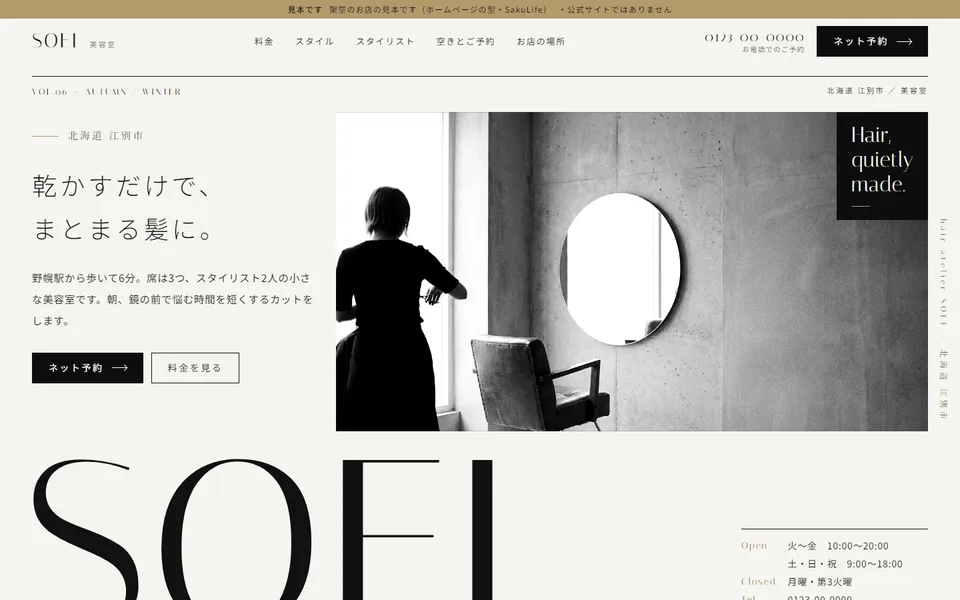
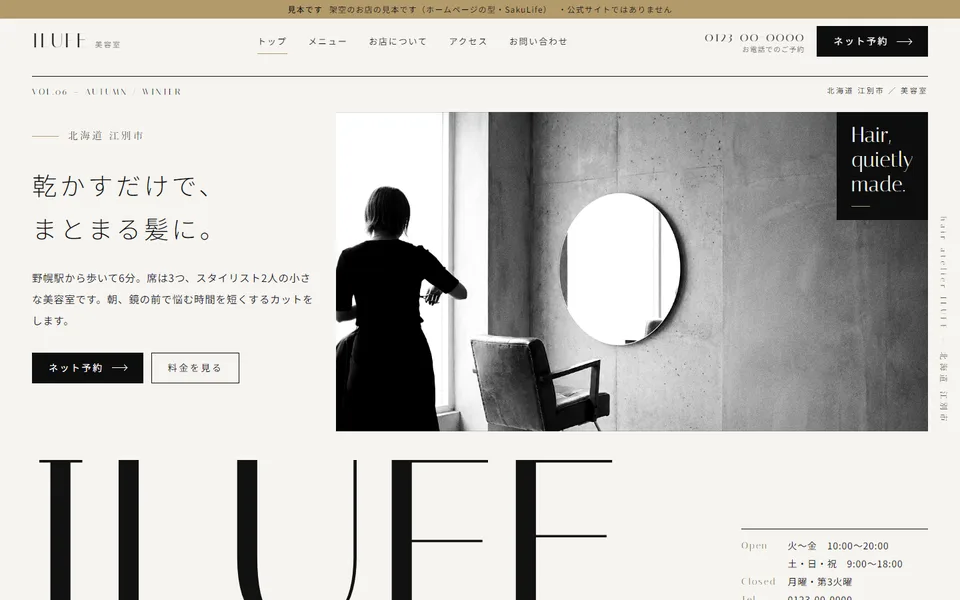
fix: 見本の店名を実在の店と紛れない名前に（美容室 ILUFE・整体院 ほどろ）
Claude-Session: https://claude.ai/code/session_01PUT2777bRqZum6AJJRXSPu

diff --git a/samples/05_seitai/index.html b/samples/05_seitai/index.html
@@ -5,9 +5,9 @@
 <meta name="viewport" content="width=device-width, initial-scale=1, viewport-fit=cover">
 <meta name="robots" content="noindex, nofollow, noarchive">
 <meta name="theme-color" content="#2f8f8a">
-<title>のっぽろ整体院 そよぎ｜北海道 江別市の整体院（見本）</title>
+<title>整体院 ほどろ｜北海道 江別市の整体院（見本）</title>
 <meta name="description" content="北海道 江別市の整体院。肩・首・腰のつらさに。初回は60分、お話と体の検査から始めます。 完全予約制・駐車場4台・お子さま連れもどうぞ。">
-<meta property="og:title" content="のっぽろ整体院 そよぎ｜北海道 江別市の整体院">
+<meta property="og:title" content="整体院 ほどろ｜北海道 江別市の整体院">
 <meta property="og:description" content="肩・首・腰のつらさに。初回は60分、お話と体の検査から始めます。 完全予約制・駐車場4台・お子さま連れもどうぞ。">
 <meta property="og:image" content="https://sakulife.github.io/saku-portfolio/samples/05_seitai/img/hero.webp">
 <meta property="og:type" content="website">
@@ -466,7 +466,7 @@ dl.info dd{margin:0}
 <div class="sample-band"><b>見本です</b>架空の整体院の見本です（ホームページの型・SakuLife）</div>
 <header class="hd">
   <div class="wrap">
-    <a class="logo" href="#top" aria-label="のっぽろ整体院 そよぎ トップへ"><svg viewBox="0 0 40 40" aria-hidden="true"><circle cx="20" cy="20" r="19" fill="#2f8f8a"/><path d="M9 24c4-1 7-6 11-6s6 4 11 3" fill="none" stroke="#fff" stroke-width="2.6" stroke-linecap="round"/><path d="M9 17c4-1 7-5 11-5s6 3 11 2" fill="none" stroke="#7fd1b9" stroke-width="2.6" stroke-linecap="round"/><circle cx="20" cy="29" r="2.4" fill="#fff"/></svg><span><b>のっぽろ整体院 そよぎ</b><small>SOYOGI SEITAI</small></span></a>
+    <a class="logo" href="#top" aria-label="整体院 ほどろ トップへ"><svg viewBox="0 0 40 40" aria-hidden="true"><circle cx="20" cy="20" r="19" fill="#2f8f8a"/><path d="M9 24c4-1 7-6 11-6s6 4 11 3" fill="none" stroke="#fff" stroke-width="2.6" stroke-linecap="round"/><path d="M9 17c4-1 7-5 11-5s6 3 11 2" fill="none" stroke="#7fd1b9" stroke-width="2.6" stroke-linecap="round"/><circle cx="20" cy="29" r="2.4" fill="#fff"/></svg><span><b>整体院 ほどろ</b><small>HODORO SEITAI</small></span></a>
     <nav class="gnav" aria-label="ページ内のご案内">
 <a href="#check">症状チェック</a><a href="#menu">コースと料金</a><a href="#flow">初回の流れ</a><a href="#faq">よくある質問</a><a href="#access">アクセス</a>
     </nav>
@@ -500,7 +500,7 @@ dl.info dd{margin:0}
 <ul class="facts hero-in"><li><svg viewBox="0 0 16 16" aria-hidden="true"><circle cx="8" cy="8" r="8"/><path d="M4.5 8.3l2.3 2.2L11.5 5.8"/></svg>完全予約制</li><li><svg viewBox="0 0 16 16" aria-hidden="true"><circle cx="8" cy="8" r="8"/><path d="M4.5 8.3l2.3 2.2L11.5 5.8"/></svg>強く押さない施術</li><li><svg viewBox="0 0 16 16" aria-hidden="true"><circle cx="8" cy="8" r="8"/><path d="M4.5 8.3l2.3 2.2L11.5 5.8"/></svg>ベビーカーのまま入れます</li></ul>      </div>
       <div class="visual" data-overflow-ok>
         <div class="blob"></div><div class="blob b2"></div>
-        <div class="ph"><img src="img/hero.webp" alt="のっぽろ整体院 そよぎの施術室（イメージ）" width="1264" height="843" fetchpriority="high"></div>
+        <div class="ph"><img src="img/hero.webp" alt="整体院 ほどろの施術室（イメージ）" width="1264" height="843" fetchpriority="high"></div>
         <div class="float f1"><small>いちばん多いコース｜からだ全体の整体</small><div class="bn"><b>40<span>MIN</span></b><b class="yen">¥6,000<span>税込</span></b></div></div>
         <div class="float f2"><span class="dot"></span><span><small>月〜金</small><b style="font-size:16px">10:00〜20:00</b></span></div>
       </div>
@@ -653,6 +653,7 @@ dl.info dd{margin:0}
     </div>
   </section>
 
+
   <section class="sec pale" id="faq">
     <div class="wrap">
       <div class="ttl c"><span class="en">FAQ</span><h2>よくある質問</h2></div>
@@ -725,13 +726,13 @@ dl.info dd{margin:0}
     <div class="wrap">
       <div class="ttl"><span class="en">Access</span><h2>院の場所</h2></div>
       <div class="grid">
-        <iframe class="map" title="のっぽろ整体院 そよぎの地図" loading="lazy" referrerpolicy="no-referrer-when-downgrade" src="https://www.google.com/maps?q=%E5%8C%97%E6%B5%B7%E9%81%93%20%E6%B1%9F%E5%88%A5%E5%B8%82%20%E9%87%8E%E5%B9%8C%E7%94%BA&amp;hl=ja&amp;z=15&amp;output=embed"></iframe>
+        <iframe class="map" title="整体院 ほどろの地図" loading="lazy" referrerpolicy="no-referrer-when-downgrade" src="https://www.google.com/maps?q=%E5%8C%97%E6%B5%B7%E9%81%93%20%E6%B1%9F%E5%88%A5%E5%B8%82%20%E9%87%8E%E5%B9%8C%E7%94%BA&amp;hl=ja&amp;z=15&amp;output=embed"></iframe>
         <div>
           <dl class="info">
             <div><dt>住所</dt><dd>北海道 江別市野幌町（番地が入ります）</dd></div>
 <div><dt>アクセス</dt><dd>JR野幌駅から歩いて8分</dd></div><div><dt>駐車場</dt><dd>院の前に4台</dd></div>            <div><dt>電話</dt><dd><a href="tel:0123000000">0123-00-0000</a></dd></div>
 <div><dt>定休日</dt><dd>日曜・祝日</dd></div>          </dl>
-<div class="ext"><img src="img/exterior.webp" alt="のっぽろ整体院 そよぎの外観（イメージ）" loading="lazy" width="1184" height="888"></div>        </div>
+<div class="ext"><img src="img/exterior.webp" alt="整体院 ほどろの外観（イメージ）" loading="lazy" width="1184" height="888"></div>        </div>
       </div>
 <div class="news"><ul><li><time>2026.12.01</time><span>年末年始のお休み：12月30日〜1月4日</span></li><li><time>2026.11.15</time><span>土曜の受付を16:00までに延ばしました</span></li><li><time>2026.10.20</time><span>冬のあいだ、駐車場の除雪は朝8時に済ませています</span></li></ul></div>    </div>
   </section>
@@ -741,7 +742,7 @@ dl.info dd{margin:0}
   <div class="wrap">
     <div class="grid">
       <div>
-        <a class="logo" href="#top"><svg viewBox="0 0 40 40" aria-hidden="true"><circle cx="20" cy="20" r="19" fill="#2f8f8a"/><path d="M9 24c4-1 7-6 11-6s6 4 11 3" fill="none" stroke="#fff" stroke-width="2.6" stroke-linecap="round"/><path d="M9 17c4-1 7-5 11-5s6 3 11 2" fill="none" stroke="#7fd1b9" stroke-width="2.6" stroke-linecap="round"/><circle cx="20" cy="29" r="2.4" fill="#fff"/></svg><span><b>のっぽろ整体院 そよぎ</b><small>SOYOGI SEITAI</small></span></a>
+        <a class="logo" href="#top"><svg viewBox="0 0 40 40" aria-hidden="true"><circle cx="20" cy="20" r="19" fill="#2f8f8a"/><path d="M9 24c4-1 7-6 11-6s6 4 11 3" fill="none" stroke="#fff" stroke-width="2.6" stroke-linecap="round"/><path d="M9 17c4-1 7-5 11-5s6 3 11 2" fill="none" stroke="#7fd1b9" stroke-width="2.6" stroke-linecap="round"/><circle cx="20" cy="29" r="2.4" fill="#fff"/></svg><span><b>整体院 ほどろ</b><small>HODORO SEITAI</small></span></a>
         <p style="margin-top:16px">北海道 江別市野幌町（番地が入ります）<br>JR野幌駅から歩いて8分<br>駐車場：院の前に4台</p>
       </div>
       <div>
@@ -756,7 +757,7 @@ dl.info dd{margin:0}
     </div>
     <div class="bottom">
       <p>施術は医療行為ではありません。強い痛み・しびれ・けがの時は、先に医療機関の受診をおすすめします。<br>このページは架空の整体院の見本です。写真は AI で作ったイメージです。</p>
-      <p>© のっぽろ整体院 そよぎ（見本）</p>
+      <p>© 整体院 ほどろ（見本）</p>
     </div>
   </div>
 </footer>

diff --git a/samples/04_salon/index.html b/samples/04_salon/index.html
@@ -5,9 +5,9 @@
 <meta name="viewport" content="width=device-width, initial-scale=1, viewport-fit=cover">
 <meta name="robots" content="noindex, nofollow, noarchive">
 <meta name="theme-color" content="#0d0d0d">
-<title>hair atelier SOEL｜北海道 江別市の美容室（見本）</title>
-<meta name="description" content="北海道 江別市の美容室 hair atelier SOEL。野幌駅から歩いて6分。席は3つ、スタイリスト2人の小さな美容室です。朝、鏡の前で悩む時間を短くするカットをします。">
-<meta property="og:title" content="hair atelier SOEL｜北海道 江別市の美容室">
+<title>hair atelier ILUFE｜北海道 江別市の美容室（見本）</title>
+<meta name="description" content="北海道 江別市の美容室 hair atelier ILUFE。野幌駅から歩いて6分。席は3つ、スタイリスト2人の小さな美容室です。朝、鏡の前で悩む時間を短くするカットをします。">
+<meta property="og:title" content="hair atelier ILUFE｜北海道 江別市の美容室">
 <meta property="og:description" content="野幌駅から歩いて6分。席は3つ、スタイリスト2人の小さな美容室です。朝、鏡の前で悩む時間を短くするカットをします。">
 <meta property="og:image" content="https://sakulife.github.io/saku-portfolio/samples/04_salon/img/hero.webp">
 <meta property="og:type" content="website">
@@ -17,7 +17,7 @@
 <link rel="preconnect" href="https://fonts.gstatic.com" crossorigin>
 <link href="https://fonts.googleapis.com/css2?family=Italiana&family=Noto+Sans+JP:wght@200;300;400;500&display=swap" rel="stylesheet">
 <link rel="preload" as="image" href="img/hero.webp">
-<script type="application/ld+json">{"@context": "https://schema.org", "@type": "HairSalon", "address": "\u5317\u6d77\u9053 \u6c5f\u5225\u5e02\u91ce\u5e4c\u753a\uff08\u756a\u5730\u304c\u5165\u308a\u307e\u3059\uff09", "name": "hair atelier SOEL", "openingHours": ["\u706b\u301c\u91d1 10:00\u301c20:00\uff08\u30ab\u30c3\u30c8\u306e\u6700\u7d42\u53d7\u4ed8 19:00\uff09", "\u571f\u30fb\u65e5\u30fb\u795d 9:00\u301c18:00"], "telephone": "0123-00-0000"}</script>
+<script type="application/ld+json">{"@context": "https://schema.org", "@type": "HairSalon", "address": "\u5317\u6d77\u9053 \u6c5f\u5225\u5e02\u91ce\u5e4c\u753a\uff08\u756a\u5730\u304c\u5165\u308a\u307e\u3059\uff09", "name": "hair atelier ILUFE", "openingHours": ["\u706b\u301c\u91d1 10:00\u301c20:00\uff08\u30ab\u30c3\u30c8\u306e\u6700\u7d42\u53d7\u4ed8 19:00\uff09", "\u571f\u30fb\u65e5\u30fb\u795d 9:00\u301c18:00"], "telephone": "0123-00-0000"}</script>
 <style>
 :root{
   --main:#0d0d0d; --accent:#b39a6b; --bg:#f6f4f0; --ink:#111111;
@@ -387,7 +387,7 @@ section[id]{scroll-margin-top:calc(var(--band) + var(--hd) + 10px)}
 <div class="band" role="note"><b>見本です</b><span>架空のお店の見本です（ホームページの型・SakuLife）</span><span class="lg">・公式サイトではありません</span></div>
 
 <header class="hd">
-  <a class="logo" href="index.html#top" aria-label="hair atelier SOEL トップへ"><span class="en">SOEL</span><small>美容室</small></a>
+  <a class="logo" href="index.html#top" aria-label="hair atelier ILUFE トップへ"><span class="en">ILUFE</span><small>美容室</small></a>
   <nav class="gn" aria-label="ページの案内">
 <a href="index.html" aria-current="page">トップ</a><a href="menu.html">メニュー</a><a href="about.html">お店について</a><a href="access.html">アクセス</a><a href="contact.html">お問い合わせ</a>  </nav>
   <button class="mbtn" type="button" aria-expanded="false" aria-controls="mnav"><span>MENU</span><i aria-hidden="true"></i></button>
@@ -411,10 +411,10 @@ section[id]{scroll-margin-top:calc(var(--band) + var(--hd) + 10px)}
         <a class="bk line" href="menu.html#price">料金を見る</a>
       </div>
     </div>
-    <div class="ph"><img src="img/hero.webp" alt="hair atelier SOELの店内（イメージ）" width="1600" height="900" fetchpriority="high"><p class="tagline" aria-hidden="true"><span class="mline"><span>Hair,</span></span><span class="mline"><span>quietly</span></span><span class="mline"><span>made.</span></span></p></div>
-    <div class="mast" aria-hidden="true">SOEL</div>
+    <div class="ph"><img src="img/hero.webp" alt="hair atelier ILUFEの店内（イメージ）" width="1600" height="900" fetchpriority="high"><p class="tagline" aria-hidden="true"><span class="mline"><span>Hair,</span></span><span class="mline"><span>quietly</span></span><span class="mline"><span>made.</span></span></p></div>
+    <div class="mast" aria-hidden="true">ILUFE</div>
     <div class="cover"><dl><dt>Open</dt><dd>火〜金　10:00〜20:00</dd><dt></dt><dd>土・日・祝　9:00〜18:00</dd><dt>Closed</dt><dd>月曜・第3火曜</dd><dt>Tel</dt><dd><a href="tel:0123000000">0123-00-0000</a></dd></dl></div>
-    <div class="side" aria-hidden="true">hair atelier SOEL — 北海道 江別市</div>
+    <div class="side" aria-hidden="true">hair atelier ILUFE — 北海道 江別市</div>
   </section>
 
   <section class="intro" aria-label="ご紹介">
@@ -446,14 +446,14 @@ section[id]{scroll-margin-top:calc(var(--band) + var(--hd) + 10px)}
 
 <footer class="ft">
   <div class="wrap">
-    <div class="huge" aria-hidden="true">SOEL</div>
+    <div class="huge" aria-hidden="true">ILUFE</div>
     <div class="cols">
       <div><h3>Contact</h3><a class="tel2" href="tel:0123000000">0123-00-0000</a><br>火〜金 10:00〜20:00（カットの最終受付 19:00）<br>土・日・祝 9:00〜18:00<br>定休日　月曜・第3火曜</div>
-      <div><h3>Access</h3>hair atelier SOEL<br>北海道 江別市野幌町（番地が入ります）<br><a href="access.html#info">地図を見る →</a></div>
+      <div><h3>Access</h3>hair atelier ILUFE<br>北海道 江別市野幌町（番地が入ります）<br><a href="access.html#info">地図を見る →</a></div>
       <div><h3>Menu</h3><ul><li><a href="index.html">トップ</a></li><li><a href="menu.html">メニュー</a></li><li><a href="about.html">お店について</a></li><li><a href="access.html">アクセス</a></li><li><a href="contact.html">お問い合わせ</a></li><li><a href="contact.html#reserve">ネット予約</a></li></ul></div>
     </div>
     <div class="row">
-<p>このページは架空のお店で作ったホームページの見本です。お店・人・電話番号は実在しません。写真は AI で作ったイメージです。</p>      <p>© hair atelier SOEL</p>
+<p>このページは架空のお店で作ったホームページの見本です。お店・人・電話番号は実在しません。写真は AI で作ったイメージです。</p>      <p>© hair atelier ILUFE</p>
     </div>
   </div>
 </footer>

diff --git a/samples/04_salon/access.html b/samples/04_salon/access.html
@@ -5,9 +5,9 @@
 <meta name="viewport" content="width=device-width, initial-scale=1, viewport-fit=cover">
 <meta name="robots" content="noindex, nofollow, noarchive">
 <meta name="theme-color" content="#0d0d0d">
-<title>アクセス｜hair atelier SOEL（見本）</title>
-<meta name="description" content="北海道 江別市の美容室 hair atelier SOEL。野幌駅から歩いて6分。席は3つ、スタイリスト2人の小さな美容室です。朝、鏡の前で悩む時間を短くするカットをします。">
-<meta property="og:title" content="hair atelier SOEL｜北海道 江別市の美容室">
+<title>アクセス｜hair atelier ILUFE（見本）</title>
+<meta name="description" content="北海道 江別市の美容室 hair atelier ILUFE。野幌駅から歩いて6分。席は3つ、スタイリスト2人の小さな美容室です。朝、鏡の前で悩む時間を短くするカットをします。">
+<meta property="og:title" content="hair atelier ILUFE｜北海道 江別市の美容室">
 <meta property="og:description" content="野幌駅から歩いて6分。席は3つ、スタイリスト2人の小さな美容室です。朝、鏡の前で悩む時間を短くするカットをします。">
 <meta property="og:image" content="https://sakulife.github.io/saku-portfolio/samples/04_salon/img/hero.webp">
 <meta property="og:type" content="website">
@@ -17,7 +17,7 @@
 <link rel="preconnect" href="https://fonts.gstatic.com" crossorigin>
 <link href="https://fonts.googleapis.com/css2?family=Italiana&family=Noto+Sans+JP:wght@200;300;400;500&display=swap" rel="stylesheet">
 <link rel="preload" as="image" href="img/hero.webp">
-<script type="application/ld+json">{"@context": "https://schema.org", "@type": "HairSalon", "address": "\u5317\u6d77\u9053 \u6c5f\u5225\u5e02\u91ce\u5e4c\u753a\uff08\u756a\u5730\u304c\u5165\u308a\u307e\u3059\uff09", "name": "hair atelier SOEL", "openingHours": ["\u706b\u301c\u91d1 10:00\u301c20:00\uff08\u30ab\u30c3\u30c8\u306e\u6700\u7d42\u53d7\u4ed8 19:00\uff09", "\u571f\u30fb\u65e5\u30fb\u795d 9:00\u301c18:00"], "telephone": "0123-00-0000"}</script>
+<script type="application/ld+json">{"@context": "https://schema.org", "@type": "HairSalon", "address": "\u5317\u6d77\u9053 \u6c5f\u5225\u5e02\u91ce\u5e4c\u753a\uff08\u756a\u5730\u304c\u5165\u308a\u307e\u3059\uff09", "name": "hair atelier ILUFE", "openingHours": ["\u706b\u301c\u91d1 10:00\u301c20:00\uff08\u30ab\u30c3\u30c8\u306e\u6700\u7d42\u53d7\u4ed8 19:00\uff09", "\u571f\u30fb\u65e5\u30fb\u795d 9:00\u301c18:00"], "telephone": "0123-00-0000"}</script>
 <style>
 :root{
   --main:#0d0d0d; --accent:#b39a6b; --bg:#f6f4f0; --ink:#111111;
@@ -387,7 +387,7 @@ section[id]{scroll-margin-top:calc(var(--band) + var(--hd) + 10px)}
 <div class="band" role="note"><b>見本です</b><span>架空のお店の見本です（ホームページの型・SakuLife）</span><span class="lg">・公式サイトではありません</span></div>
 
 <header class="hd">
-  <a class="logo" href="index.html#top" aria-label="hair atelier SOEL トップへ"><span class="en">SOEL</span><small>美容室</small></a>
+  <a class="logo" href="index.html#top" aria-label="hair atelier ILUFE トップへ"><span class="en">ILUFE</span><small>美容室</small></a>
   <nav class="gn" aria-label="ページの案内">
 <a href="index.html">トップ</a><a href="menu.html">メニュー</a><a href="about.html">お店について</a><a href="access.html" aria-current="page">アクセス</a><a href="contact.html">お問い合わせ</a>  </nav>
   <button class="mbtn" type="button" aria-expanded="false" aria-controls="mnav"><span>MENU</span><i aria-hidden="true"></i></button>
@@ -432,7 +432,7 @@ section[id]{scroll-margin-top:calc(var(--band) + var(--hd) + 10px)}
           <div><dt>お支払い</dt><dd>現金・クレジットカード・PayPay</dd></div>
           <div><dt>席</dt><dd>セット面3席・シャンプー台1台（同時のお客さまは2人まで）</dd></div>
         </dl>
-        <iframe class="map" title="hair atelier SOELの地図" loading="lazy" referrerpolicy="no-referrer-when-downgrade" src="https://www.google.com/maps?q=%E5%8C%97%E6%B5%B7%E9%81%93%20%E6%B1%9F%E5%88%A5%E5%B8%82%E9%87%8E%E5%B9%8C%E7%94%BA&amp;hl=ja&amp;z=15&amp;output=embed"></iframe>
+        <iframe class="map" title="hair atelier ILUFEの地図" loading="lazy" referrerpolicy="no-referrer-when-downgrade" src="https://www.google.com/maps?q=%E5%8C%97%E6%B5%B7%E9%81%93%20%E6%B1%9F%E5%88%A5%E5%B8%82%E9%87%8E%E5%B9%8C%E7%94%BA&amp;hl=ja&amp;z=15&amp;output=embed"></iframe>
       </div>
     </div>
   </section>
@@ -440,14 +440,14 @@ section[id]{scroll-margin-top:calc(var(--band) + var(--hd) + 10px)}
 
 <footer class="ft">
   <div class="wrap">
-    <div class="huge" aria-hidden="true">SOEL</div>
+    <div class="huge" aria-hidden="true">ILUFE</div>
     <div class="cols">
       <div><h3>Contact</h3><a class="tel2" href="tel:0123000000">0123-00-0000</a><br>火〜金 10:00〜20:00（カットの最終受付 19:00）<br>土・日・祝 9:00〜18:00<br>定休日　月曜・第3火曜</div>
-      <div><h3>Access</h3>hair atelier SOEL<br>北海道 江別市野幌町（番地が入ります）<br><a href="access.html#info">地図を見る →</a></div>
+      <div><h3>Access</h3>hair atelier ILUFE<br>北海道 江別市野幌町（番地が入ります）<br><a href="access.html#info">地図を見る →</a></div>
       <div><h3>Menu</h3><ul><li><a href="index.html">トップ</a></li><li><a href="menu.html">メニュー</a></li><li><a href="about.html">お店について</a></li><li><a href="access.html">アクセス</a></li><li><a href="contact.html">お問い合わせ</a></li><li><a href="contact.html#reserve">ネット予約</a></li></ul></div>
     </div>
     <div class="row">
-<p>このページは架空のお店で作ったホームページの見本です。お店・人・電話番号は実在しません。写真は AI で作ったイメージです。</p>      <p>© hair atelier SOEL</p>
+<p>このページは架空のお店で作ったホームページの見本です。お店・人・電話番号は実在しません。写真は AI で作ったイメージです。</p>      <p>© hair atelier ILUFE</p>
     </div>
   </div>
 </footer>

diff --git a/samples/04_salon/about.html b/samples/04_salon/about.html
@@ -5,9 +5,9 @@
 <meta name="viewport" content="width=device-width, initial-scale=1, viewport-fit=cover">
 <meta name="robots" content="noindex, nofollow, noarchive">
 <meta name="theme-color" content="#0d0d0d">
-<title>お店について｜hair atelier SOEL（見本）</title>
-<meta name="description" content="北海道 江別市の美容室 hair atelier SOEL。野幌駅から歩いて6分。席は3つ、スタイリスト2人の小さな美容室です。朝、鏡の前で悩む時間を短くするカットをします。">
-<meta property="og:title" content="hair atelier SOEL｜北海道 江別市の美容室">
+<title>お店について｜hair atelier ILUFE（見本）</title>
+<meta name="description" content="北海道 江別市の美容室 hair atelier ILUFE。野幌駅から歩いて6分。席は3つ、スタイリスト2人の小さな美容室です。朝、鏡の前で悩む時間を短くするカットをします。">
+<meta property="og:title" content="hair atelier ILUFE｜北海道 江別市の美容室">
 <meta property="og:description" content="野幌駅から歩いて6分。席は3つ、スタイリスト2人の小さな美容室です。朝、鏡の前で悩む時間を短くするカットをします。">
 <meta property="og:image" content="https://sakulife.github.io/saku-portfolio/samples/04_salon/img/hero.webp">
 <meta property="og:type" content="website">
@@ -17,7 +17,7 @@
 <link rel="preconnect" href="https://fonts.gstatic.com" crossorigin>
 <link href="https://fonts.googleapis.com/css2?family=Italiana&family=Noto+Sans+JP:wght@200;300;400;500&display=swap" rel="stylesheet">
 <link rel="preload" as="image" href="img/hero.webp">
-<script type="application/ld+json">{"@context": "https://schema.org", "@type": "HairSalon", "address": "\u5317\u6d77\u9053 \u6c5f\u5225\u5e02\u91ce\u5e4c\u753a\uff08\u756a\u5730\u304c\u5165\u308a\u307e\u3059\uff09", "name": "hair atelier SOEL", "openingHours": ["\u706b\u301c\u91d1 10:00\u301c20:00\uff08\u30ab\u30c3\u30c8\u306e\u6700\u7d42\u53d7\u4ed8 19:00\uff09", "\u571f\u30fb\u65e5\u30fb\u795d 9:00\u301c18:00"], "telephone": "0123-00-0000"}</script>
+<script type="application/ld+json">{"@context": "https://schema.org", "@type": "HairSalon", "address": "\u5317\u6d77\u9053 \u6c5f\u5225\u5e02\u91ce\u5e4c\u753a\uff08\u756a\u5730\u304c\u5165\u308a\u307e\u3059\uff09", "name": "hair atelier ILUFE", "openingHours": ["\u706b\u301c\u91d1 10:00\u301c20:00\uff08\u30ab\u30c3\u30c8\u306e\u6700\u7d42\u53d7\u4ed8 19:00\uff09", "\u571f\u30fb\u65e5\u30fb\u795d 9:00\u301c18:00"], "telephone": "0123-00-0000"}</script>
 <style>
 :root{
   --main:#0d0d0d; --accent:#b39a6b; --bg:#f6f4f0; --ink:#111111;
@@ -387,7 +387,7 @@ section[id]{scroll-margin-top:calc(var(--band) + var(--hd) + 10px)}
 <div class="band" role="note"><b>見本です</b><span>架空のお店の見本です（ホームページの型・SakuLife）</span><span class="lg">・公式サイトではありません</span></div>
 
 <header class="hd">
-  <a class="logo" href="index.html#top" aria-label="hair atelier SOEL トップへ"><span class="en">SOEL</span><small>美容室</small></a>
+  <a class="logo" href="index.html#top" aria-label="hair atelier ILUFE トップへ"><span class="en">ILUFE</span><small>美容室</small></a>
   <nav class="gn" aria-label="ページの案内">
 <a href="index.html">トップ</a><a href="menu.html">メニュー</a><a href="about.html" aria-current="page">お店について</a><a href="access.html">アクセス</a><a href="contact.html">お問い合わせ</a>  </nav>
   <button class="mbtn" type="button" aria-expanded="false" aria-controls="mnav"><span>MENU</span><i aria-hidden="true"></i></button>
@@ -455,14 +455,14 @@ section[id]{scroll-margin-top:calc(var(--band) + var(--hd) + 10px)}
 
 <footer class="ft">
   <div class="wrap">
-    <div class="huge" aria-hidden="true">SOEL</div>
+    <div class="huge" aria-hidden="true">ILUFE</div>
     <div class="cols">
       <div><h3>Contact</h3><a class="tel2" href="tel:0123000000">0123-00-0000</a><br>火〜金 10:00〜20:00（カットの最終受付 19:00）<br>土・日・祝 9:00〜18:00<br>定休日　月曜・第3火曜</div>
-      <div><h3>Access</h3>hair atelier SOEL<br>北海道 江別市野幌町（番地が入ります）<br><a href="access.html#info">地図を見る →</a></div>
+      <div><h3>Access</h3>hair atelier ILUFE<br>北海道 江別市野幌町（番地が入ります）<br><a href="access.html#info">地図を見る →</a></div>
       <div><h3>Menu</h3><ul><li><a href="index.html">トップ</a></li><li><a href="menu.html">メニュー</a></li><li><a href="about.html">お店について</a></li><li><a href="access.html">アクセス</a></li><li><a href="contact.html">お問い合わせ</a></li><li><a href="contact.html#reserve">ネット予約</a></li></ul></div>
     </div>
     <div class="row">
-<p>このページは架空のお店で作ったホームページの見本です。お店・人・電話番号は実在しません。写真は AI で作ったイメージです。</p>      <p>© hair atelier SOEL</p>
+<p>このページは架空のお店で作ったホームページの見本です。お店・人・電話番号は実在しません。写真は AI で作ったイメージです。</p>      <p>© hair atelier ILUFE</p>
     </div>
   </div>
 </footer>

diff --git a/samples/04_salon/contact.html b/samples/04_salon/contact.html
@@ -5,9 +5,9 @@
 <meta name="viewport" content="width=device-width, initial-scale=1, viewport-fit=cover">
 <meta name="robots" content="noindex, nofollow, noarchive">
 <meta name="theme-color" content="#0d0d0d">
-<title>お問い合わせ｜hair atelier SOEL（見本）</title>
-<meta name="description" content="北海道 江別市の美容室 hair atelier SOEL。野幌駅から歩いて6分。席は3つ、スタイリスト2人の小さな美容室です。朝、鏡の前で悩む時間を短くするカットをします。">
-<meta property="og:title" content="hair atelier SOEL｜北海道 江別市の美容室">
+<title>お問い合わせ｜hair atelier ILUFE（見本）</title>
+<meta name="description" content="北海道 江別市の美容室 hair atelier ILUFE。野幌駅から歩いて6分。席は3つ、スタイリスト2人の小さな美容室です。朝、鏡の前で悩む時間を短くするカットをします。">
+<meta property="og:title" content="hair atelier ILUFE｜北海道 江別市の美容室">
 <meta property="og:description" content="野幌駅から歩いて6分。席は3つ、スタイリスト2人の小さな美容室です。朝、鏡の前で悩む時間を短くするカットをします。">
 <meta property="og:image" content="https://sakulife.github.io/saku-portfolio/samples/04_salon/img/hero.webp">
 <meta property="og:type" content="website">
@@ -17,7 +17,7 @@
 <link rel="preconnect" href="https://fonts.gstatic.com" crossorigin>
 <link href="https://fonts.googleapis.com/css2?family=Italiana&family=Noto+Sans+JP:wght@200;300;400;500&display=swap" rel="stylesheet">
 <link rel="preload" as="image" href="img/hero.webp">
-<script type="application/ld+json">{"@context": "https://schema.org", "@type": "HairSalon", "address": "\u5317\u6d77\u9053 \u6c5f\u5225\u5e02\u91ce\u5e4c\u753a\uff08\u756a\u5730\u304c\u5165\u308a\u307e\u3059\uff09", "name": "hair atelier SOEL", "openingHours": ["\u706b\u301c\u91d1 10:00\u301c20:00\uff08\u30ab\u30c3\u30c8\u306e\u6700\u7d42\u53d7\u4ed8 19:00\uff09", "\u571f\u30fb\u65e5\u30fb\u795d 9:00\u301c18:00"], "telephone": "0123-00-0000"}</script>
+<script type="application/ld+json">{"@context": "https://schema.org", "@type": "HairSalon", "address": "\u5317\u6d77\u9053 \u6c5f\u5225\u5e02\u91ce\u5e4c\u753a\uff08\u756a\u5730\u304c\u5165\u308a\u307e\u3059\uff09", "name": "hair atelier ILUFE", "openingHours": ["\u706b\u301c\u91d1 10:00\u301c20:00\uff08\u30ab\u30c3\u30c8\u306e\u6700\u7d42\u53d7\u4ed8 19:00\uff09", "\u571f\u30fb\u65e5\u30fb\u795d 9:00\u301c18:00"], "telephone": "0123-00-0000"}</script>
 <style>
 :root{
   --main:#0d0d0d; --accent:#b39a6b; --bg:#f6f4f0; --ink:#111111;
@@ -387,7 +387,7 @@ section[id]{scroll-margin-top:calc(var(--band) + var(--hd) + 10px)}
 <div class="band" role="note"><b>見本です</b><span>架空のお店の見本です（ホームページの型・SakuLife）</span><span class="lg">・公式サイトではありません</span></div>
 
 <header class="hd">
-  <a class="logo" href="index.html#top" aria-label="hair atelier SOEL トップへ"><span class="en">SOEL</span><small>美容室</small></a>
+  <a class="logo" href="index.html#top" aria-label="hair atelier ILUFE トップへ"><span class="en">ILUFE</span><small>美容室</small></a>
   <nav class="gn" aria-label="ページの案内">
 <a href="index.html">トップ</a><a href="menu.html">メニュー</a><a href="about.html">お店について</a><a href="access.html">アクセス</a><a href="contact.html" aria-current="page">お問い合わせ</a>  </nav>
   <button class="mbtn" type="button" aria-expanded="false" aria-controls="mnav"><span>MENU</span><i aria-hidden="true"></i></button>
@@ -453,14 +453,14 @@ section[id]{scroll-margin-top:calc(var(--band) + var(--hd) + 10px)}
 
 <footer class="ft">
   <div class="wrap">
-    <div class="huge" aria-hidden="true">SOEL</div>
+    <div class="huge" aria-hidden="true">ILUFE</div>
     <div class="cols">
       <div><h3>Contact</h3><a class="tel2" href="tel:0123000000">0123-00-0000</a><br>火〜金 10:00〜20:00（カットの最終受付 19:00）<br>土・日・祝 9:00〜18:00<br>定休日　月曜・第3火曜</div>
-      <div><h3>Access</h3>hair atelier SOEL<br>北海道 江別市野幌町（番地が入ります）<br><a href="access.html#info">地図を見る →</a></div>
+      <div><h3>Access</h3>hair atelier ILUFE<br>北海道 江別市野幌町（番地が入ります）<br><a href="access.html#info">地図を見る →</a></div>
       <div><h3>Menu</h3><ul><li><a href="index.html">トップ</a></li><li><a href="menu.html">メニュー</a></li><li><a href="about.html">お店について</a></li><li><a href="access.html">アクセス</a></li><li><a href="contact.html">お問い合わせ</a></li><li><a href="contact.html#reserve">ネット予約</a></li></ul></div>
     </div>
     <div class="row">
-<p>このページは架空のお店で作ったホームページの見本です。お店・人・電話番号は実在しません。写真は AI で作ったイメージです。</p>      <p>© hair atelier SOEL</p>
+<p>このページは架空のお店で作ったホームページの見本です。お店・人・電話番号は実在しません。写真は AI で作ったイメージです。</p>      <p>© hair atelier ILUFE</p>
     </div>
   </div>
 </footer>

diff --git a/samples/04_salon/menu.html b/samples/04_salon/menu.html
@@ -5,9 +5,9 @@
 <meta name="viewport" content="width=device-width, initial-scale=1, viewport-fit=cover">
 <meta name="robots" content="noindex, nofollow, noarchive">
 <meta name="theme-color" content="#0d0d0d">
-<title>メニュー｜hair atelier SOEL（見本）</title>
-<meta name="description" content="北海道 江別市の美容室 hair atelier SOEL。野幌駅から歩いて6分。席は3つ、スタイリスト2人の小さな美容室です。朝、鏡の前で悩む時間を短くするカットをします。">
-<meta property="og:title" content="hair atelier SOEL｜北海道 江別市の美容室">
+<title>メニュー｜hair atelier ILUFE（見本）</title>
+<meta name="description" content="北海道 江別市の美容室 hair atelier ILUFE。野幌駅から歩いて6分。席は3つ、スタイリスト2人の小さな美容室です。朝、鏡の前で悩む時間を短くするカットをします。">
+<meta property="og:title" content="hair atelier ILUFE｜北海道 江別市の美容室">
 <meta property="og:description" content="野幌駅から歩いて6分。席は3つ、スタイリスト2人の小さな美容室です。朝、鏡の前で悩む時間を短くするカットをします。">
 <meta property="og:image" content="https://sakulife.github.io/saku-portfolio/samples/04_salon/img/hero.webp">
 <meta property="og:type" content="website">
@@ -17,7 +17,7 @@
 <link rel="preconnect" href="https://fonts.gstatic.com" crossorigin>
 <link href="https://fonts.googleapis.com/css2?family=Italiana&family=Noto+Sans+JP:wght@200;300;400;500&display=swap" rel="stylesheet">
 <link rel="preload" as="image" href="img/hero.webp">
-<script type="application/ld+json">{"@context": "https://schema.org", "@type": "HairSalon", "address": "\u5317\u6d77\u9053 \u6c5f\u5225\u5e02\u91ce\u5e4c\u753a\uff08\u756a\u5730\u304c\u5165\u308a\u307e\u3059\uff09", "name": "hair atelier SOEL", "openingHours": ["\u706b\u301c\u91d1 10:00\u301c20:00\uff08\u30ab\u30c3\u30c8\u306e\u6700\u7d42\u53d7\u4ed8 19:00\uff09", "\u571f\u30fb\u65e5\u30fb\u795d 9:00\u301c18:00"], "telephone": "0123-00-0000"}</script>
+<script type="application/ld+json">{"@context": "https://schema.org", "@type": "HairSalon", "address": "\u5317\u6d77\u9053 \u6c5f\u5225\u5e02\u91ce\u5e4c\u753a\uff08\u756a\u5730\u304c\u5165\u308a\u307e\u3059\uff09", "name": "hair atelier ILUFE", "openingHours": ["\u706b\u301c\u91d1 10:00\u301c20:00\uff08\u30ab\u30c3\u30c8\u306e\u6700\u7d42\u53d7\u4ed8 19:00\uff09", "\u571f\u30fb\u65e5\u30fb\u795d 9:00\u301c18:00"], "telephone": "0123-00-0000"}</script>
 <style>
 :root{
   --main:#0d0d0d; --accent:#b39a6b; --bg:#f6f4f0; --ink:#111111;
@@ -387,7 +387,7 @@ section[id]{scroll-margin-top:calc(var(--band) + var(--hd) + 10px)}
 <div class="band" role="note"><b>見本です</b><span>架空のお店の見本です（ホームページの型・SakuLife）</span><span class="lg">・公式サイトではありません</span></div>
 
 <header class="hd">
-  <a class="logo" href="index.html#top" aria-label="hair atelier SOEL トップへ"><span class="en">SOEL</span><small>美容室</small></a>
+  <a class="logo" href="index.html#top" aria-label="hair atelier ILUFE トップへ"><span class="en">ILUFE</span><small>美容室</small></a>
   <nav class="gn" aria-label="ページの案内">
 <a href="index.html">トップ</a><a href="menu.html" aria-current="page">メニュー</a><a href="about.html">お店について</a><a href="access.html">アクセス</a><a href="contact.html">お問い合わせ</a>  </nav>
   <button class="mbtn" type="button" aria-expanded="false" aria-controls="mnav"><span>MENU</span><i aria-hidden="true"></i></button>
@@ -509,14 +509,14 @@ section[id]{scroll-margin-top:calc(var(--band) + var(--hd) + 10px)}
 
 <footer class="ft">
   <div class="wrap">
-    <div class="huge" aria-hidden="true">SOEL</div>
+    <div class="huge" aria-hidden="true">ILUFE</div>
     <div class="cols">
       <div><h3>Contact</h3><a class="tel2" href="tel:0123000000">0123-00-0000</a><br>火〜金 10:00〜20:00（カットの最終受付 19:00）<br>土・日・祝 9:00〜18:00<br>定休日　月曜・第3火曜</div>
-      <div><h3>Access</h3>hair atelier SOEL<br>北海道 江別市野幌町（番地が入ります）<br><a href="access.html#info">地図を見る →</a></div>
+      <div><h3>Access</h3>hair atelier ILUFE<br>北海道 江別市野幌町（番地が入ります）<br><a href="access.html#info">地図を見る →</a></div>
       <div><h3>Menu</h3><ul><li><a href="index.html">トップ</a></li><li><a href="menu.html">メニュー</a></li><li><a href="about.html">お店について</a></li><li><a href="access.html">アクセス</a></li><li><a href="contact.html">お問い合わせ</a></li><li><a href="contact.html#reserve">ネット予約</a></li></ul></div>
     </div>
     <div class="row">
-<p>このページは架空のお店で作ったホームページの見本です。お店・人・電話番号は実在しません。写真は AI で作ったイメージです。</p>      <p>© hair atelier SOEL</p>
+<p>このページは架空のお店で作ったホームページの見本です。お店・人・電話番号は実在しません。写真は AI で作ったイメージです。</p>      <p>© hair atelier ILUFE</p>
     </div>
   </div>
 </footer>
